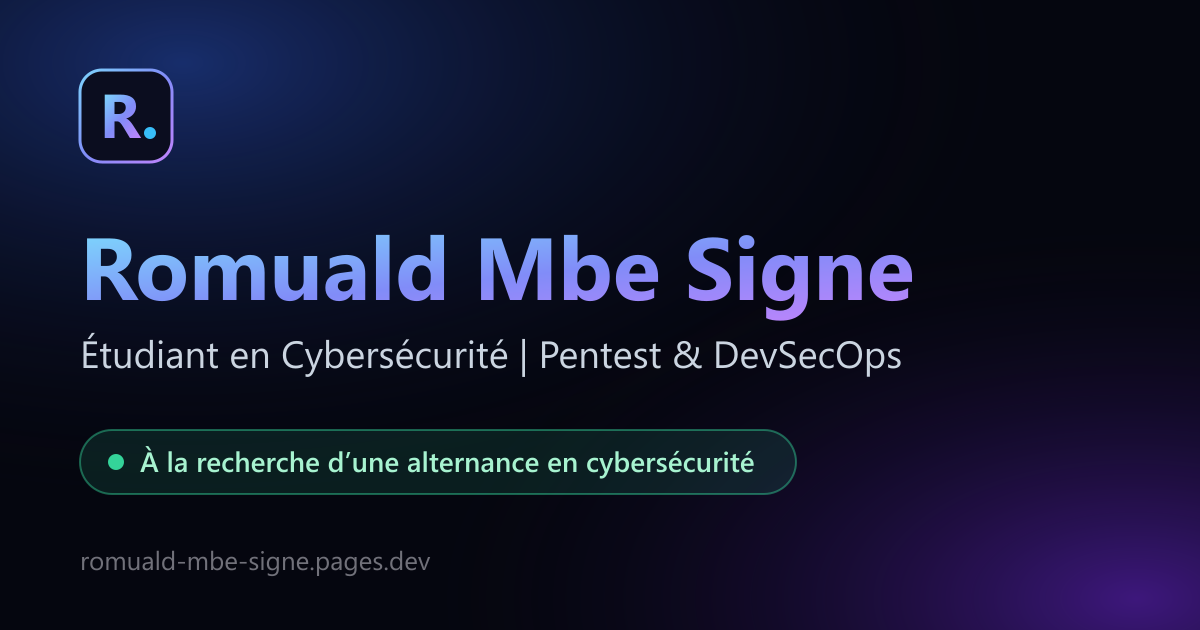
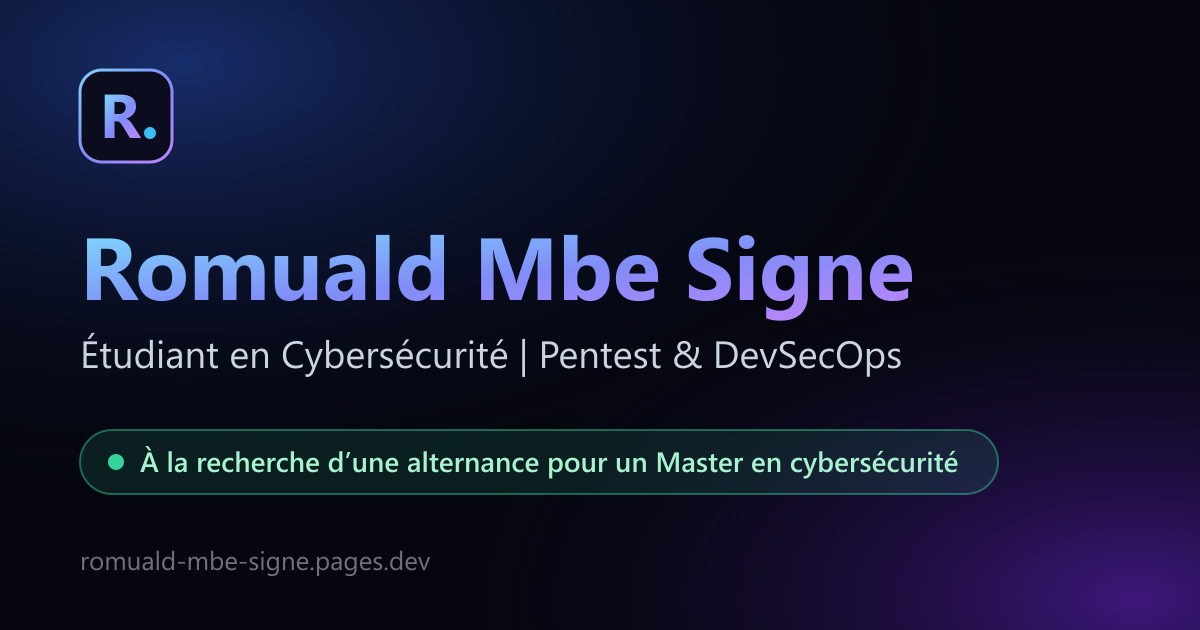
Precise que l'alternance vise un Master en cybersecurite

Changed region(s): [[0.4317, 0.7238, 0.8017, 0.7841], [0.6475, 0.6635, 0.8017, 0.6937], [0.8017, 0.754, 0.8325, 0.7841]]

diff --git a/components/sections/Hero.tsx b/components/sections/Hero.tsx
@@ -3,7 +3,8 @@ import Reveal from "@/components/ui/Reveal";
 import ScrambleText from "@/components/ui/ScrambleText";
 
 const facts = [
-  { label: "Formation", value: "Bachelor 3 Cybersécurité, ESAIP Angers" },
+  { label: "Formation", value: "Bachelor 3 Cybersécurité (ESAIP Angers)" },
+  { label: "Objectif", value: "Master en cybersécurité, en alternance" },
   { label: "Rythme", value: "2 semaines en entreprise, 2 semaines à l’école" },
   { label: "Mobilité", value: "Toute la France" },
 ];
@@ -46,13 +47,14 @@ export default function Hero() {
           </Reveal>
           <Reveal delay={0.24}>
             <p className="mt-6 max-w-[58ch] text-base leading-relaxed text-slate-400 md:text-lg">
-              À la recherche d’une alternance en cybersécurité. Je pratique le
-              pentest sur des labs et je sécurise les applications que je
-              développe : contrôle d’accès, chiffrement, correction de failles.
+              À la recherche d’une alternance pour intégrer un Master en
+              cybersécurité. Je pratique le pentest sur des labs et je sécurise
+              les applications que je développe : contrôle d’accès,
+              chiffrement, correction de failles.
             </p>
           </Reveal>
           <Reveal delay={0.28}>
-            <dl className="mt-8 grid max-w-2xl gap-x-8 gap-y-5 border-t border-white/10 pt-6 sm:grid-cols-3">
+            <dl className="mt-8 grid max-w-2xl gap-x-8 gap-y-5 border-t border-white/10 pt-6 sm:grid-cols-2">
               {facts.map((fact) => (
                 <div key={fact.label}>
                   <dt className="text-sm text-slate-500">{fact.label}</dt>

diff --git a/components/sections/About.tsx b/components/sections/About.tsx
@@ -39,7 +39,8 @@ export default function About() {
             </p>
             <p className="mt-4 inline-flex items-center gap-2.5 rounded-full border border-emerald-400/25 bg-emerald-400/10 px-4 py-1.5 text-sm font-medium text-emerald-200">
               <span aria-hidden="true" className="h-2 w-2 rounded-full bg-emerald-400" />
-              À la recherche d’une alternance en cybersécurité
+              À la recherche d’une alternance pour intégrer un Master en
+              cybersécurité
             </p>
             <div className="mt-6 max-w-[62ch] space-y-4 text-base leading-relaxed text-zinc-300">
               <p>
@@ -81,8 +82,9 @@ export default function About() {
                 mes compétences.
               </p>
               <p>
-                Je recherche aujourd’hui une alternance en cybersécurité,
-                partout en France, et je suis disponible immédiatement. Si mon
+                Je recherche aujourd’hui une alternance pour intégrer un Master
+                en cybersécurité, partout en France, et je suis disponible
+                immédiatement. Si mon
                 profil vous intéresse, n’hésitez pas à{" "}
                 <a href="#projets" className={linkClass}>
                   parcourir mes projets

diff --git a/app/layout.tsx b/app/layout.tsx
@@ -20,7 +20,7 @@ const poppins = Poppins({
 
 const title = "Romuald Mbe Signe | Cybersécurité – À la recherche d’une alternance";
 const description =
-  "Portfolio de Romuald Mbe Signe, étudiant en cybersécurité à la recherche d’une alternance : pentest, DevSecOps et développement sécurisé. Disponible immédiatement.";
+  "Portfolio de Romuald Mbe Signe, étudiant en cybersécurité à la recherche d’une alternance pour intégrer un Master en cybersécurité : pentest, DevSecOps et développement sécurisé. Disponible immédiatement.";
 
 // Le logo (favicon, icône Apple) et l'image d'aperçu de lien sont les fichiers
 // icon.png, apple-icon.png et opengraph-image.png de ce dossier.

diff --git a/components/sections/Contact.tsx b/components/sections/Contact.tsx
@@ -108,8 +108,8 @@ export default function Contact() {
         <div className="mt-12 grid items-start gap-10 lg:grid-cols-[0.9fr_1.1fr] lg:gap-14">
           <Reveal delay={0.1}>
             <p className="font-display text-2xl font-semibold leading-snug text-zinc-50">
-              À la recherche d’une alternance en cybersécurité, disponible
-              immédiatement.
+              À la recherche d’une alternance pour intégrer un Master en
+              cybersécurité, disponible immédiatement.
             </p>
             <p className="mt-3 text-sm leading-relaxed text-zinc-400">
               Basé à Angers, mobile dans toute la France. Rythme de 2 semaines

diff --git a/components/sections/Journey.tsx b/components/sections/Journey.tsx
@@ -220,8 +220,8 @@ export default function Journey() {
                     Prochaine étape, disponible immédiatement
                   </p>
                   <h3 className="mt-3 font-display text-lg font-semibold text-zinc-50">
-                    À la recherche d’une alternance en cybersécurité : votre
-                    entreprise ?
+                    À la recherche d’une alternance pour intégrer un Master en
+                    cybersécurité : votre entreprise ?
                   </h3>
                   <p className="mt-3 text-sm leading-relaxed text-zinc-400">
                     Rythme de 2 semaines en entreprise et 2 semaines à l’école,

diff --git a/components/Footer.tsx b/components/Footer.tsx
@@ -33,7 +33,7 @@ export default function Footer() {
             </p>
             <p className="mt-5 inline-flex items-center gap-2.5 rounded-full border border-emerald-400/25 bg-emerald-400/10 px-4 py-1.5 text-sm font-medium text-emerald-200">
               <span aria-hidden="true" className="h-2 w-2 rounded-full bg-emerald-400" />
-              À la recherche d’une alternance en cybersécurité
+              À la recherche d’une alternance pour un Master en cybersécurité
             </p>
             <p className="mt-3 text-sm text-zinc-500">
               Disponible immédiatement, mobile dans toute la France.

diff --git a/components/ui/AboutTerminal.tsx b/components/ui/AboutTerminal.tsx
@@ -25,7 +25,7 @@ const commands: Command[] = [
   {
     cmd: "cat objectif.txt",
     output: [
-      "Alternance en cybersécurité",
+      "Alternance pour intégrer un Master en cybersécurité",
       "Rythme : 2 semaines en entreprise, 2 semaines à l’école",
       "Disponible immédiatement, mobile en France",
     ],
